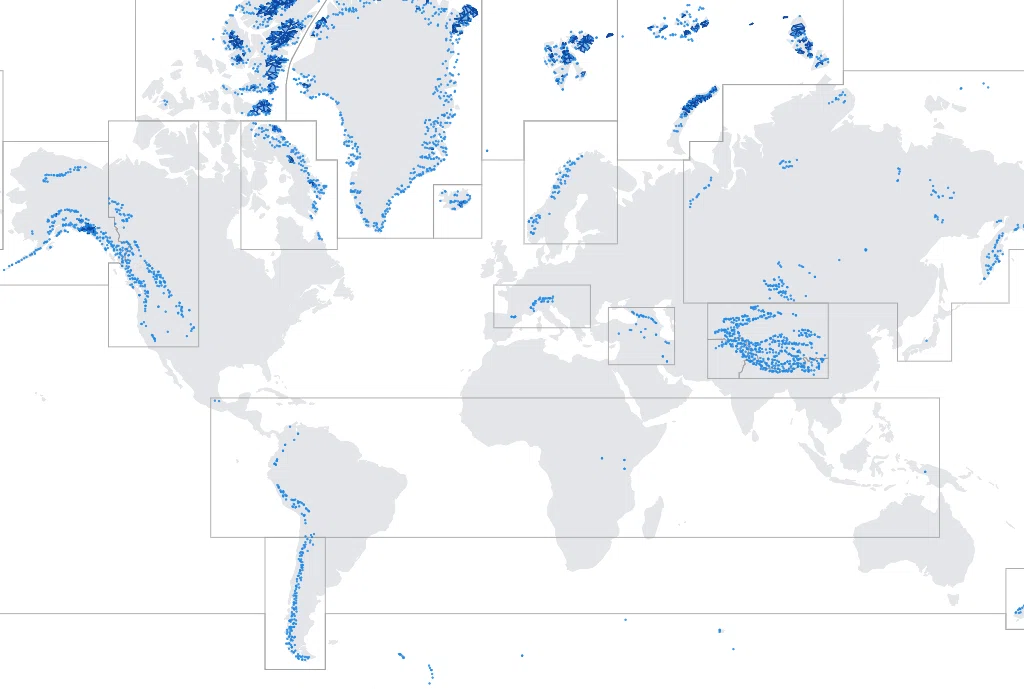
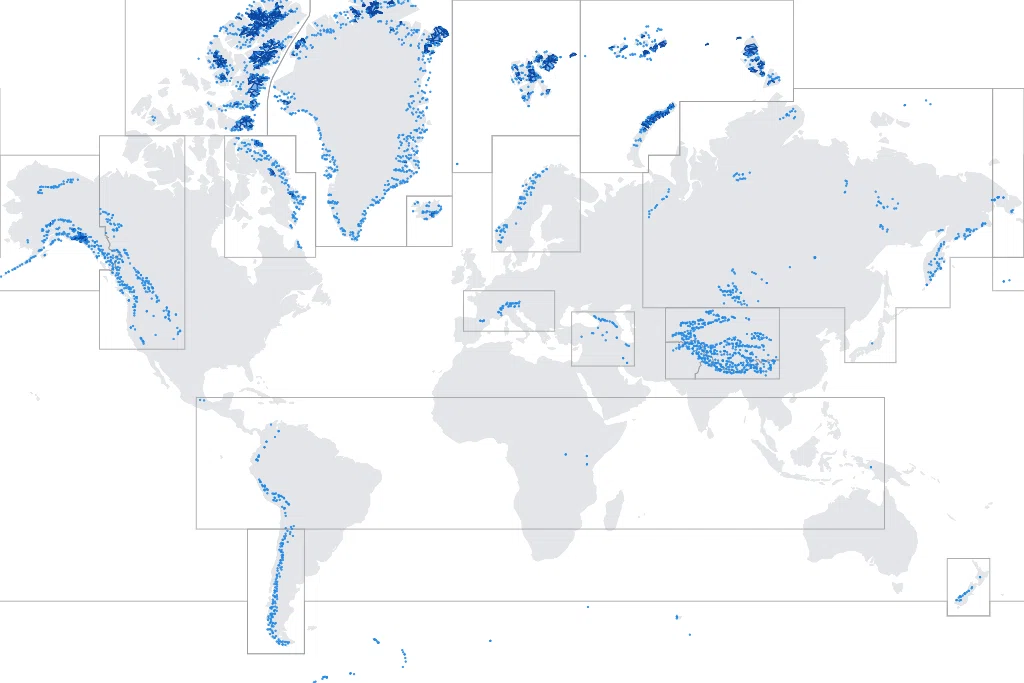
fix: start the world thumbnails at the Alaska border
The world thumbnails now run once around the world from 169°W, the
border between Alaska and North Asia, to 191°E. No region box is cut at
the image edges. The previous frame stopped at 170°, so it cut the
Alaska and North Asia regions in the middle.

diff --git a/docs/DESIGN.md b/docs/DESIGN.md
@@ -419,8 +419,10 @@ docker run -d --rm --name rgi-chiitiler -p 13579:3000 -e CHIITILER_PROCESSES=0 \
   --mount "type=bind,source=$PWD,target=$PWD,readonly" ghcr.io/kanahiro/chiitiler:latest
 ```
 
-A `/clip` bbox that spans the full ±180° renders only part of the data. Frame
-world views at ±170° or less.
+A `/clip` bbox may run past 180°. The world thumbnails span 169°W to 191°E,
+once around the world from the border between Alaska and North Asia. No
+region box is cut at the image edges. RGI splits North Asia and the Alaska
+region at 180°, so their split edge shows as a line.
 
 ## Thumbnails (rendered 2026-10-24)
 
@@ -443,8 +445,8 @@ archive and drops its symbol layers. No thumbnail needs a credit:
 
 | Image | Style | bbox |
 | --- | --- | --- |
-| root, `v7.0` | Glaciers | -170,-60.3,170,82 |
-| regions | Glacier regions | -170,-60.3,170,82 |
+| root, `v7.0` | Glaciers | -169,-62.15,191,83 |
+| regions | Glacier regions | -169,-62.15,191,83 |
 | glaciers, complexes, intersects, centerlines | each default | -70.078019,-54.786293,-69.421981,-54.533313 |
 
 The frame holds 232 intersects, ten times the divide length of a frame of the
